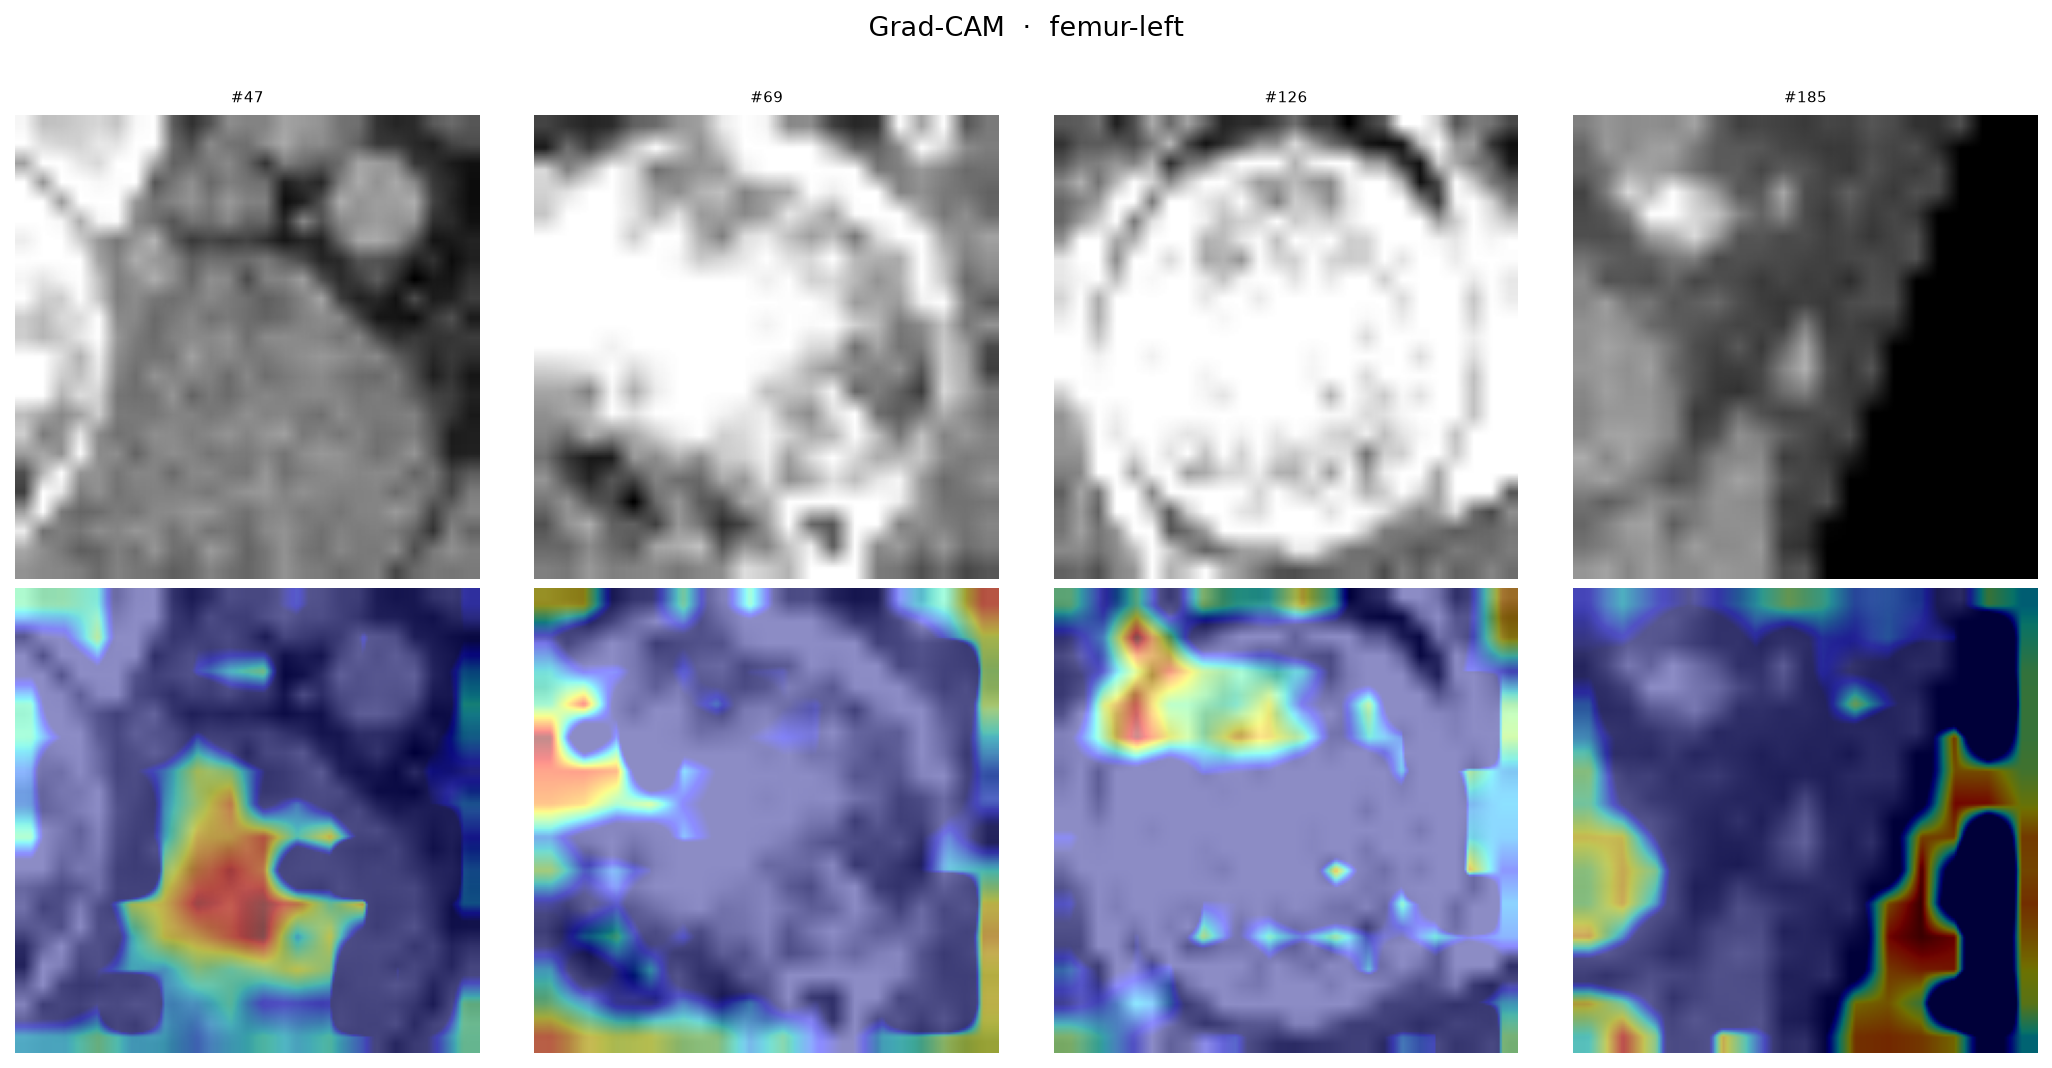
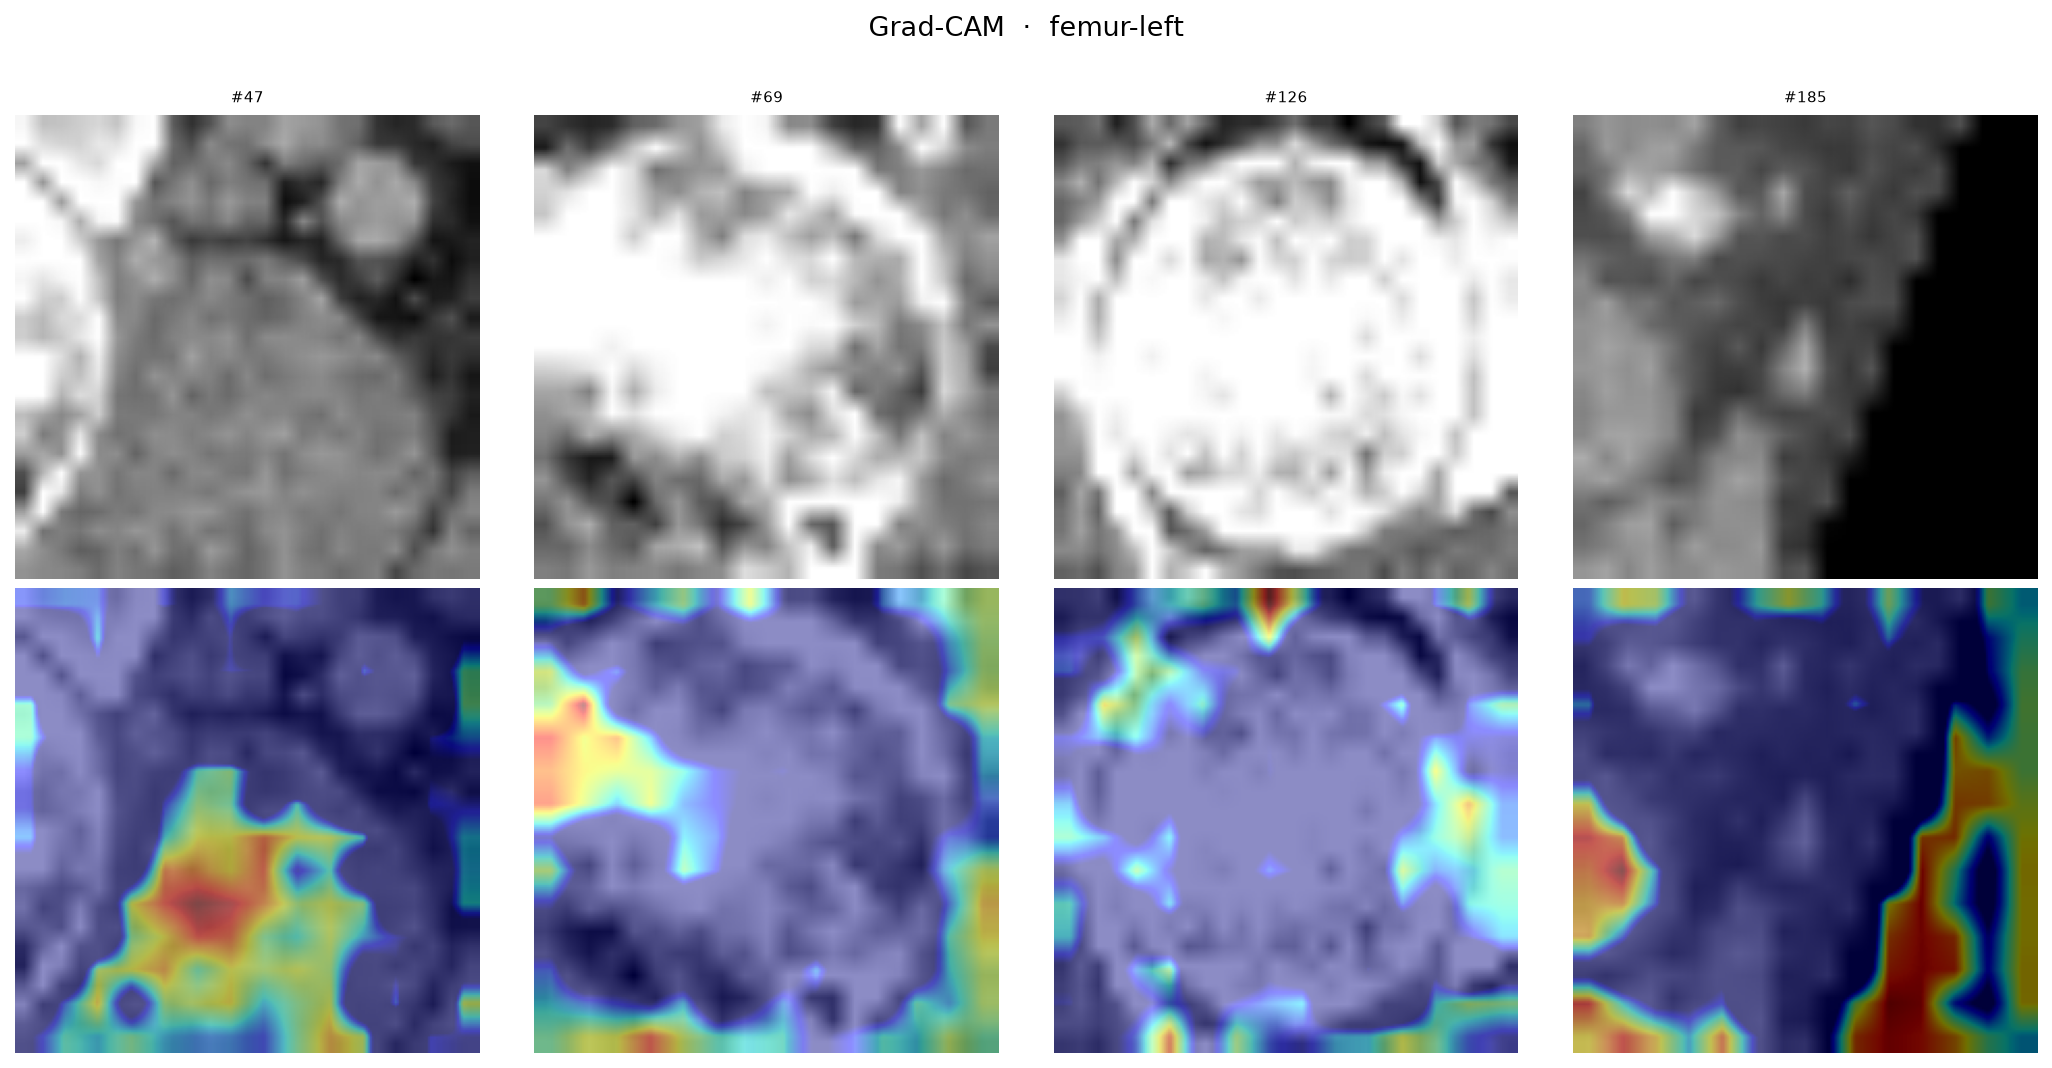
refactor: dataset-agnostic get_dataset(), patch-text similarity engine, updated figures
- Isolated dataset loading into get_dataset() swap point in generate_masks.py and visualize_masks.py
- Added BioMedCLIPPatchSimilarity (patch-text similarity, no backward pass required)
- Added post_process_mask() with threshold/hole-fill/Gaussian smooth
- Added NEGATIVE_PROMPTS to templates.py for hard-negative suppression
- Updated gradcam figures generated from patch-text similarity masks

diff --git a/scripts/generate_masks.py b/scripts/generate_masks.py
@@ -1,9 +1,12 @@
-"""Generate Grad-CAM pseudo-masks for the OrganAMNIST test split.
+"""Generate patch-text similarity pseudo-masks for the OrganAMNIST test split.
+
+CAM = sim(patch_tokens, positive_prompt) - max(sim(patch_tokens, negative_prompts))
 
 Usage:
     python scripts/generate_masks.py
-    python scripts/generate_masks.py --limit 100          # first 100 images only
-    python scripts/generate_masks.py --target_class 6     # always explain "liver"
+    python scripts/generate_masks.py --limit 100          # first 100 images
+    python scripts/generate_masks.py --no_negatives       # skip hard-negative suppression
+    python scripts/generate_masks.py --no_postprocess     # skip morphological cleanup
 """
 
 import argparse
@@ -20,9 +23,26 @@ from open_clip import get_tokenizer
 sys.path.insert(0, str(Path(__file__).parent.parent))
 
 from src.data.organmnist import load_organamnist
-from src.labels.templates import CLASS_NAMES, ZERO_SHOT_TEMPLATES
+from src.labels.templates import CLASS_NAMES, ZERO_SHOT_TEMPLATES, NEGATIVE_PROMPTS
 from src.training.freeze import UNFREEZE_PATTERNS
-from src.explainability.gradcam import BioMedCLIPGradCAM
+from src.explainability.patch_similarity import BioMedCLIPPatchSimilarity, post_process_mask
+
+
+def get_dataset():
+    """Return the test split as an indexable dataset.
+
+    Each item must be (image_tensor, label) where:
+      - image_tensor: torch.Tensor of shape (3, H, W), preprocessed with
+        BioMedCLIP's transforms from open_clip.create_model_and_transforms
+      - label: int or 1-element array-like containing the class index
+
+    ---- SWAP POINT ----
+    Replace the body of this function when moving to a new dataset.
+    The rest of the pipeline (BioMedCLIPPatchSimilarity, mask saving) is
+    fully dataset-agnostic and requires no other changes.
+    """
+    _, _, test_ds = load_organamnist(size=224)
+    return test_ds
 
 MODEL_NAME   = "hf-hub:microsoft/BiomedCLIP-PubMedBERT_256-vit_base_patch16_224"
 DEFAULT_CKPT = "checkpoints/epoch_009_val3.0132.pt"
@@ -33,20 +53,21 @@ def load_model(checkpoint: str, device: str):
     model, _, _ = open_clip.create_model_and_transforms(MODEL_NAME)
     model = model.to(device)
     ckpt = torch.load(checkpoint, map_location=device, weights_only=False)
-    missing, unexpected = model.load_state_dict(ckpt["model_state_dict"], strict=False)
+    missing, _ = model.load_state_dict(ckpt["model_state_dict"], strict=False)
     frozen_missing = [k for k in missing if not any(p in k for p in UNFREEZE_PATTERNS)]
     print(f"  Loaded checkpoint (epoch {ckpt['epoch']}, val {ckpt['val_loss']:.4f})")
     print(f"  {len(frozen_missing)} frozen keys not in checkpoint (expected)")
     model.eval()
+    for p in model.parameters():
+        p.requires_grad_(False)
     return model
 
 
-def encode_text_templates(model, tokenizer, device: str) -> torch.Tensor:
-    texts = [ZERO_SHOT_TEMPLATES[i] for i in range(len(CLASS_NAMES))]
+def encode_texts(model, tokenizer, texts: list, device: str) -> torch.Tensor:
     tokens = tokenizer(texts).to(device)
     with torch.no_grad():
         features = F.normalize(model.encode_text(tokens), dim=-1)
-    return features  # (11, 512)
+    return features
 
 
 def main():
@@ -57,6 +78,10 @@ def main():
                         help="Only process first N test images (default: all 17778)")
     parser.add_argument("--target_class", type=int, default=None,
                         help="Explain this class index for every image (default: true label)")
+    parser.add_argument("--no_negatives", action="store_true",
+                        help="Skip hard-negative suppression")
+    parser.add_argument("--no_postprocess", action="store_true",
+                        help="Skip morphological post-processing")
     args = parser.parse_args()
 
     OUTPUT_DIR.mkdir(parents=True, exist_ok=True)
@@ -68,21 +93,23 @@ def main():
     print(f"Loading model from {ckpt_path}...")
     model = load_model(str(ckpt_path), args.device)
 
-    print("Loading tokenizer and encoding text templates...")
+    print("Encoding text templates...")
     tokenizer     = get_tokenizer(MODEL_NAME)
-    text_features = encode_text_templates(model, tokenizer, args.device)
+    pos_templates = [ZERO_SHOT_TEMPLATES[i] for i in range(len(CLASS_NAMES))]
+    text_features = encode_texts(model, tokenizer, pos_templates, args.device)  # (11, 512)
 
-    print("Loading OrganAMNIST test split...")
-    _, _, test_ds = load_organamnist(size=224)
+    neg_features = None
+    if not args.no_negatives:
+        print(f"Encoding {len(NEGATIVE_PROMPTS)} hard-negative prompts...")
+        neg_features = encode_texts(model, tokenizer, NEGATIVE_PROMPTS, args.device)
+
+    print("Loading dataset...")
+    test_ds = get_dataset()
     n = min(len(test_ds), args.limit) if args.limit else len(test_ds)
     print(f"Generating masks for {n} images...")
 
-    # Freeze all params — backward only tracks the image, not 195M param grads
-    for p in model.parameters():
-        p.requires_grad_(False)
-
-    gradcam  = BioMedCLIPGradCAM(model, device=args.device)
-    metadata = []
+    patch_sim = BioMedCLIPPatchSimilarity(model, device=args.device)
+    metadata  = []
 
     for idx in range(n):
         image, label_arr = test_ds[idx]
@@ -90,24 +117,31 @@ def main():
         target = args.target_class if args.target_class is not None else label
 
         image_tensor = image.unsqueeze(0).to(args.device)
-        mask = gradcam.generate(image_tensor, text_features, target_class=target)
+        mask = patch_sim.generate(
+            image_tensor, text_features,
+            target_class=target,
+            neg_text_features=neg_features,
+        )
+
+        if not args.no_postprocess:
+            mask = post_process_mask(mask)
 
         out_path = OUTPUT_DIR / f"{idx:06d}_class{label}_target{target}.npy"
         np.save(out_path, mask)
 
         metadata.append({
-            "idx":         idx,
-            "true_label":  label,
-            "class_name":  CLASS_NAMES[label],
+            "idx":          idx,
+            "true_label":   label,
+            "class_name":   CLASS_NAMES[label],
             "target_class": target,
-            "target_name": CLASS_NAMES[target],
-            "mask_path":   str(out_path),
+            "target_name":  CLASS_NAMES[target],
+            "mask_path":    str(out_path),
         })
 
         if (idx + 1) % 500 == 0 or (idx + 1) == n:
             print(f"  {idx+1}/{n}", flush=True)
 
-    gradcam.remove_hooks()
+    patch_sim.remove_hooks()
 
     meta_path = OUTPUT_DIR / "metadata.json"
     with open(meta_path, "w") as f:

diff --git a/src/explainability/patch_similarity.py b/src/explainability/patch_similarity.py
@@ -1,0 +1,129 @@
+import numpy as np
+import torch
+import torch.nn.functional as F
+from scipy import ndimage
+
+
+class BioMedCLIPPatchSimilarity:
+    """Patch-text similarity saliency map for BioMedCLIP.
+
+    Hooks model.visual.trunk.norm to capture all 197 token features after the
+    final LayerNorm. Projects each of the 196 patch tokens through the visual
+    head (768→512), then computes:
+
+        CAM = sim(patch, positive_prompt) - max(sim(patch, negative_prompts))
+
+    Returns a (image_size, image_size) float32 heatmap in [0, 1].
+    No backward pass required — pure forward.
+    """
+
+    def __init__(self, model, device: str = "cuda"):
+        self.model = model
+        self.device = device
+        self._token_features: torch.Tensor | None = None
+        self._hook = None
+        self._register_hook()
+
+    def _register_hook(self) -> None:
+        def _forward(module, input, output):
+            self._token_features = output.detach()  # (1, 197, 768)
+
+        self._hook = self.model.visual.trunk.norm.register_forward_hook(_forward)
+
+    def remove_hooks(self) -> None:
+        if self._hook:
+            self._hook.remove()
+            self._hook = None
+
+    @torch.no_grad()
+    def generate(
+        self,
+        image: torch.Tensor,
+        text_features: torch.Tensor,
+        target_class: int,
+        neg_text_features: torch.Tensor | None = None,
+        image_size: int = 224,
+    ) -> np.ndarray:
+        """
+        Args:
+            image: (1, 3, H, W) on self.device
+            text_features: (num_classes, 512) L2-normalised, on self.device
+            target_class: index into text_features to explain
+            neg_text_features: (num_neg, 512) L2-normalised hard negatives
+            image_size: spatial size of the returned mask
+
+        Returns:
+            mask: (image_size, image_size) float32 array in [0, 1]
+        """
+        self.model.encode_image(image)  # triggers hook → fills _token_features
+
+        # patch tokens: drop CLS (index 0), project to 512-dim, normalise
+        patch_tokens = self._token_features[0, 1:, :]          # (196, 768)
+        patch_emb    = self.model.visual.head(patch_tokens)     # (196, 512)
+        patch_emb    = F.normalize(patch_emb, dim=-1)           # (196, 512)
+
+        # positive similarity
+        cam = patch_emb @ text_features[target_class]           # (196,)
+
+        # subtract max hard-negative similarity
+        if neg_text_features is not None:
+            neg_sim = (patch_emb @ neg_text_features.T).max(dim=-1).values  # (196,)
+            cam = cam - neg_sim
+
+        # reshape to 14×14
+        grid = int(cam.shape[0] ** 0.5)   # 14 for ViT-B/16 at 224px
+        cam  = cam.reshape(grid, grid)
+
+        # normalise to [0, 1]
+        cam_min, cam_max = cam.min(), cam.max()
+        if cam_max > cam_min:
+            cam = (cam - cam_min) / (cam_max - cam_min)
+        else:
+            cam = torch.zeros_like(cam)
+
+        # bilinear upsample to image_size
+        cam = F.interpolate(
+            cam.unsqueeze(0).unsqueeze(0),
+            size=(image_size, image_size),
+            mode="bilinear",
+            align_corners=False,
+        ).squeeze().cpu().numpy()
+
+        return cam.astype(np.float32)
+
+
+def post_process_mask(
+    mask: np.ndarray,
+    threshold: float = 0.4,
+    min_size: int = 200,
+    fill_holes: bool = True,
+    smooth_sigma: float = 1.0,
+) -> np.ndarray:
+    """Convert a soft [0, 1] saliency map into a clean binary mask.
+
+    Steps:
+      1. Threshold → binary
+      2. Remove connected components smaller than min_size pixels
+      3. Fill enclosed holes
+      4. Optional Gaussian smooth (re-normalised to [0, 1])
+
+    Returns float32 [0, 1].
+    """
+    binary = mask >= threshold
+
+    if min_size > 0:
+        labeled, n = ndimage.label(binary)
+        sizes = ndimage.sum(binary, labeled, range(1, n + 1))
+        for i, sz in enumerate(sizes):
+            if sz < min_size:
+                binary[labeled == (i + 1)] = False
+
+    if fill_holes:
+        binary = ndimage.binary_fill_holes(binary)
+
+    if smooth_sigma > 0:
+        smoothed = ndimage.gaussian_filter(binary.astype(np.float32), sigma=smooth_sigma)
+        peak = smoothed.max()
+        return (smoothed / peak).astype(np.float32) if peak > 0 else smoothed
+
+    return binary.astype(np.float32)

diff --git a/scripts/visualize_masks.py b/scripts/visualize_masks.py
@@ -20,6 +20,21 @@ sys.path.insert(0, str(Path(__file__).parent.parent))
 from src.data.organmnist import load_organamnist
 from src.labels.templates import CLASS_NAMES
 
+
+def get_dataset():
+    """Return the test split as an indexable dataset.
+
+    Each item must be (image_tensor, label) where:
+      - image_tensor: torch.Tensor of shape (3, H, W), preprocessed with
+        BioMedCLIP's transforms from open_clip.create_model_and_transforms
+      - label: int or 1-element array-like containing the class index
+
+    ---- SWAP POINT ----
+    Replace the body of this function when moving to a new dataset.
+    """
+    _, _, test_ds = load_organamnist(size=224)
+    return test_ds
+
 MASKS_DIR   = Path("data/pseudo_masks")
 FIGURES_DIR = Path("figures/gradcam")
 
@@ -150,8 +165,8 @@ def main():
         metadata = json.load(f)
 
     print(f"Loaded {len(metadata)} mask records.")
-    print("Loading OrganAMNIST test split...")
-    _, _, test_ds = load_organamnist(size=224)
+    print("Loading dataset...")
+    test_ds = get_dataset()
 
     by_class: dict[int, list] = {i: [] for i in range(len(CLASS_NAMES))}
     for entry in metadata:

diff --git a/src/labels/templates.py b/src/labels/templates.py
@@ -1,3 +1,13 @@
+NEGATIVE_PROMPTS = [
+    "CT scan showing background tissue",
+    "CT scan showing cortical bone",
+    "CT scan showing subcutaneous fat",
+    "CT scan showing skeletal muscle",
+    "CT scan showing blood vessel",
+    "CT scan showing air cavity",
+    "CT scan showing skin",
+]
+
 CLASS_NAMES = {
     0: "bladder",
     1: "femur-left",
